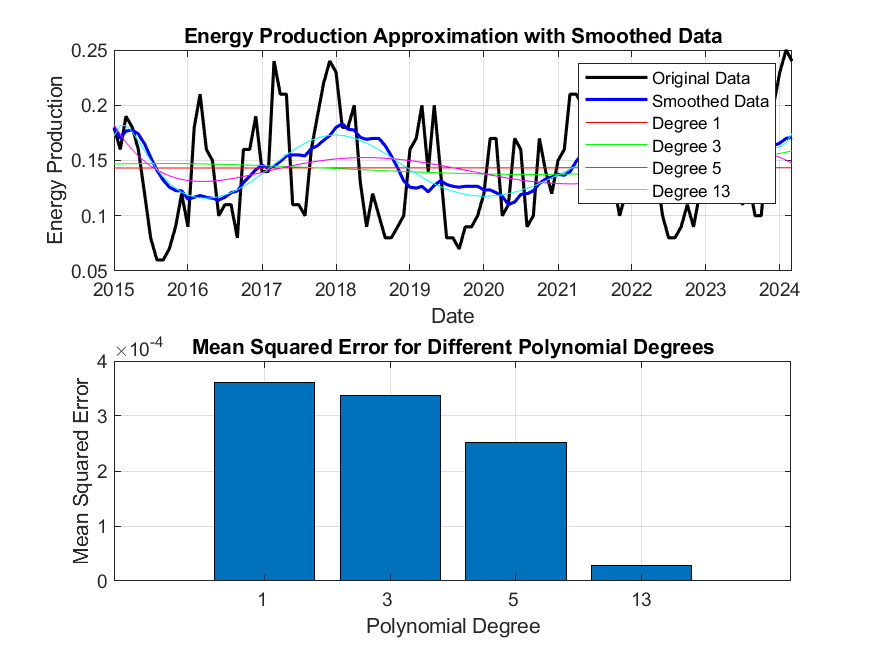
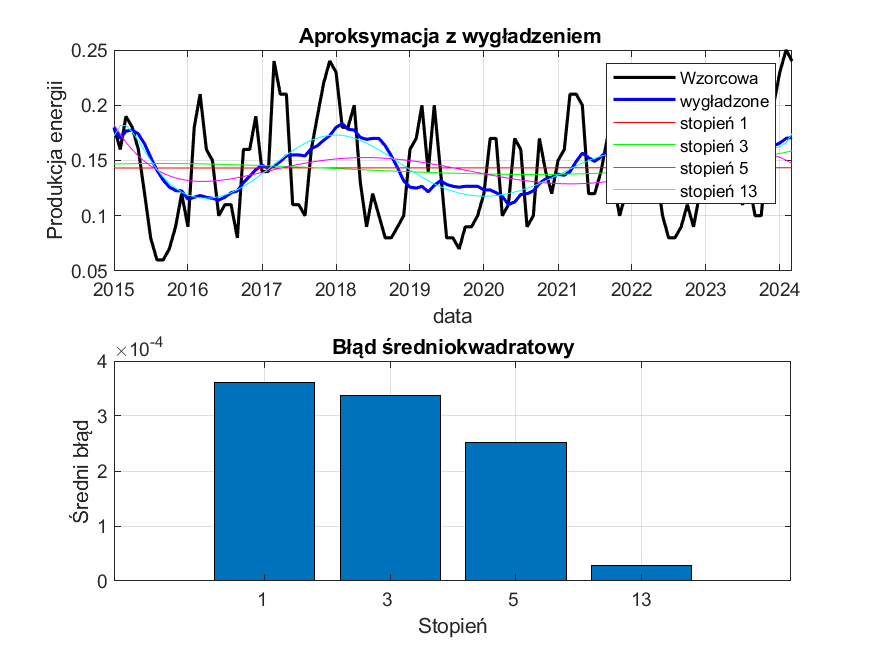
corrected displaying

diff --git a/lab6/zadanie5.m b/lab6/zadanie5.m
@@ -50,7 +50,7 @@ function [country, source, degrees, x_coarse, x_fine, y_original, y_yearly, y_ap
 
         % roczne i aproksymacja
         subplot(3, 1, 1);
-        plot(x_coarse, y_yearly, 'k', 'DisplayName', 'Yearly Data', 'LineWidth', 1.5);
+        plot(x_coarse, y_yearly, 'k', 'DisplayName', 'Roczne dane', 'LineWidth', 1.5);
         hold on;
         colors = ['r', 'g', 'b', 'm'];
         for i = 1:length(degrees)
@@ -59,32 +59,32 @@ function [country, source, degrees, x_coarse, x_fine, y_original, y_yearly, y_ap
             end
         end
         hold off;
-        title('Yearly Energy Production Approximation');
-        xlabel('Normalized Time');
-        ylabel('Yearly Energy Production');
+        title('Aproksymacja rocznej produkcji');
+        xlabel('Czas');
+        ylabel('Roczna produkcja energii');
         legend('show');
         grid on;
 
 
         subplot(3, 1, 2);
         semilogy(1:N, mse, '-');
-        title('Mean Squared Error for Different Cosine Approximation Degrees');
-        xlabel('Cosine Approximation Degree');
-        ylabel('Mean Squared Error');
+        title('Błąd średniokwadratgowy dla różnych stopni aproksymacji cosinusa');
+        xlabel('Stopień');
+        ylabel('Błąd średniokwadratowy');
         grid on;
 
 
         subplot(3, 1, 3);
         semilogy(1:N-1, msek, '-');
-        title('Convergence of Cosine Approximations');
-        xlabel('Cosine Approximation Degree');
-        ylabel('Difference Error');
+        title('Zbieżność dla stopni aproksymacji');
+        xlabel('stopień');
+        ylabel('różnica błędu');
         grid on;
 
         print -dpng 'zadanie5.png';
 
     else
-        disp(['Data for (country=', country, ') and (source=', source, ') is not available.']);
+        disp(['Dane dla (country=', country, ') oraz (source=', source, ') nie są dostępne.']);
     end
 
     disp(mat2str(size(y_approximation)));

diff --git a/lab6/zadanie4.m b/lab6/zadanie4.m
@@ -66,31 +66,31 @@ if isfield(energy, country) && isfield(energy.(country), source)
         figure;
 
         subplot(3, 1, 1);
-        plot(x_coarse, y_yearly, 'k', 'DisplayName', 'Yearly Data', 'LineWidth', 1.5);
+        plot(x_coarse, y_yearly, 'k', 'DisplayName', 'Roczne dane', 'LineWidth', 1.5);
         hold on;
         colors = ['r', 'g', 'b', 'm'];
         for i = 1:length(degrees)
-            plot(x_fine, y_approximation{degrees(i)}, colors(i), 'DisplayName', sprintf('Degree %d', degrees(i)));
+            plot(x_fine, y_approximation{degrees(i)}, colors(i), 'DisplayName', sprintf('stopień %d', degrees(i)));
         end
         hold off;
-        title('Yearly Energy Production Approximation');
-        xlabel('Normalized Time');
-        ylabel('Yearly Energy Production');
+        title('Aproksymacja rocznej produkcji');
+        xlabel('Czas');
+        ylabel('Roczna produkcja energii');
         legend('show');
         grid on;
 
         subplot(3, 1, 2);
         semilogy(1:N-1, mse, '-');
-        title('Mean Squared Error for Different Polynomial Degrees');
-        xlabel('Polynomial Degree');
-        ylabel('Mean Squared Error');
+        title('Błąd średniokwadratowy');
+        xlabel('Stopień');
+        ylabel('Średni błąd');
         grid on;
 
         subplot(3, 1, 3);
         semilogy(1:N-2, msek, '-');
-        title('Convergence of Polynomial Approximations');
-        xlabel('Polynomial Degree');
-        ylabel('Difference Error');
+        title('Zbieżność dla stopni aproksymacji');
+        xlabel('stopień');
+        ylabel('różnica błędu');
         grid on;
 
         print -dpng 'zadanie4.png';

diff --git a/lab6/zadanie2.m b/lab6/zadanie2.m
@@ -38,26 +38,26 @@ function [country, source, degrees, y_original, y_movmean, y_approximation, mse]
 
         figure;
         subplot(2, 1, 1);
-        plot(dates, y_original, 'k', 'DisplayName', 'Original Data', 'LineWidth', 1.5);
+        plot(dates, y_original, 'k', 'DisplayName', 'Wzorcowa', 'LineWidth', 1.5);
         hold on;
-        plot(dates, y_movmean, 'b', 'DisplayName', 'Smoothed Data', 'LineWidth', 1.5);
+        plot(dates, y_movmean, 'b', 'DisplayName', 'wygładzone', 'LineWidth', 1.5);
         colors = ['r', 'g', 'm', 'c'];
         for i = 1:length(degrees)
-            plot(dates, y_approximation{i}, colors(i), 'DisplayName', sprintf('Degree %d', degrees(i)));
+            plot(dates, y_approximation{i}, colors(i), 'DisplayName', sprintf('stopień %d', degrees(i)));
         end
         hold off;
-        title('Energy Production Approximation with Smoothed Data');
-        xlabel('Date');
-        ylabel('Energy Production');
+        title('Aproksymacja z wygładzeniem ');
+        xlabel('data');
+        ylabel('Produkcja energii');
         legend('show');
         grid on;
 
         subplot(2, 1, 2);
         bar(mse);
         set(gca, 'XTickLabel', degrees);
-        title('Mean Squared Error for Different Polynomial Degrees');
-        xlabel('Polynomial Degree');
-        ylabel('Mean Squared Error');
+        title('Błąd średniokwadratowy');
+        xlabel('Stopień');
+        ylabel('Średni błąd');
         grid on;
 
         print -dpng 'zadanie2.png';

diff --git a/lab6/zadanie3.m b/lab6/zadanie3.m
@@ -51,25 +51,25 @@ function [country, source, degrees, x_coarse, x_fine, y_original, y_yearly, y_ap
         figure;
 
         subplot(2, 1, 1);
-        plot(x_coarse, y_yearly, 'k', 'DisplayName', 'Yearly Data', 'LineWidth', 1.5); % Zmieniono z 'ko' na 'k'
+        plot(x_coarse, y_yearly, 'k', 'DisplayName', 'Roczne dane', 'LineWidth', 1.5); % Zmieniono z 'ko' na 'k'
         hold on;
         colors = ['r', 'g', 'b', 'm'];
         for i = 1:length(degrees)
-            plot(x_fine, y_approximation{i}, colors(i), 'DisplayName', sprintf('Degree %d', degrees(i)));
+            plot(x_fine, y_approximation{i}, colors(i), 'DisplayName', sprintf('stopień %d', degrees(i)));
         end
         hold off;
-        title('Yearly Energy Production Approximation');
-        xlabel('Normalized Time');
-        ylabel('Yearly Energy Production');
+        title('Aproksymacja rocznej produkcji');
+        xlabel('Czas');
+        ylabel('Roczna produkcja energii');
         legend('show');
         grid on;
 
         subplot(2, 1, 2);
         bar(mse);
         set(gca, 'XTickLabel', degrees);
-        title('Mean Squared Error for Different Polynomial Degrees');
-        xlabel('Polynomial Degree');
-        ylabel('Mean Squared Error');
+        title('Błąd średniokwadratowy');
+        xlabel('Stopień');
+        ylabel('Średni błąd');
         grid on;
 
 

diff --git a/lab6/zadanie1.m b/lab6/zadanie1.m
@@ -37,25 +37,25 @@ if isfield(energy, country) && isfield(energy.(country), source)
     figure;
 
         subplot(2, 1, 1);
-        plot(dates, y_original, 'k', 'DisplayName', 'Original Data', 'LineWidth', 1.5);
+        plot(dates, y_original, 'k', 'DisplayName', 'Wzorcowa', 'LineWidth', 1.5);
         hold on;
         colors = ['r', 'g', 'b', 'm'];
         for i = 1:length(degrees)
-            plot(dates, y_approximation{i}, colors(i), 'DisplayName', sprintf('Degree %d', degrees(i)));
+            plot(dates, y_approximation{i}, colors(i), 'DisplayName', sprintf('Stopien %d', degrees(i)));
         end
         hold off;
-        title('Energy Production Approximation');
-        xlabel('Date');
-        ylabel('Energy Production');
+        title('Aproksymacja produkcji energii');
+        xlabel('data');
+        ylabel('produkcja');
         legend('show');
         grid on;
 
         subplot(2, 1, 2);
         bar(mse);
         set(gca, 'XTickLabel', degrees);
-        title('Mean Squared Error for Different Polynomial Degrees');
-        xlabel('Polynomial Degree');
-        ylabel('Mean Squared Error');
+        title('Błąd średniokwadratowy');
+        xlabel('Stopień');
+        ylabel('Średni błąd');
         grid on;
 
         print -dpng zadanie1.png 
